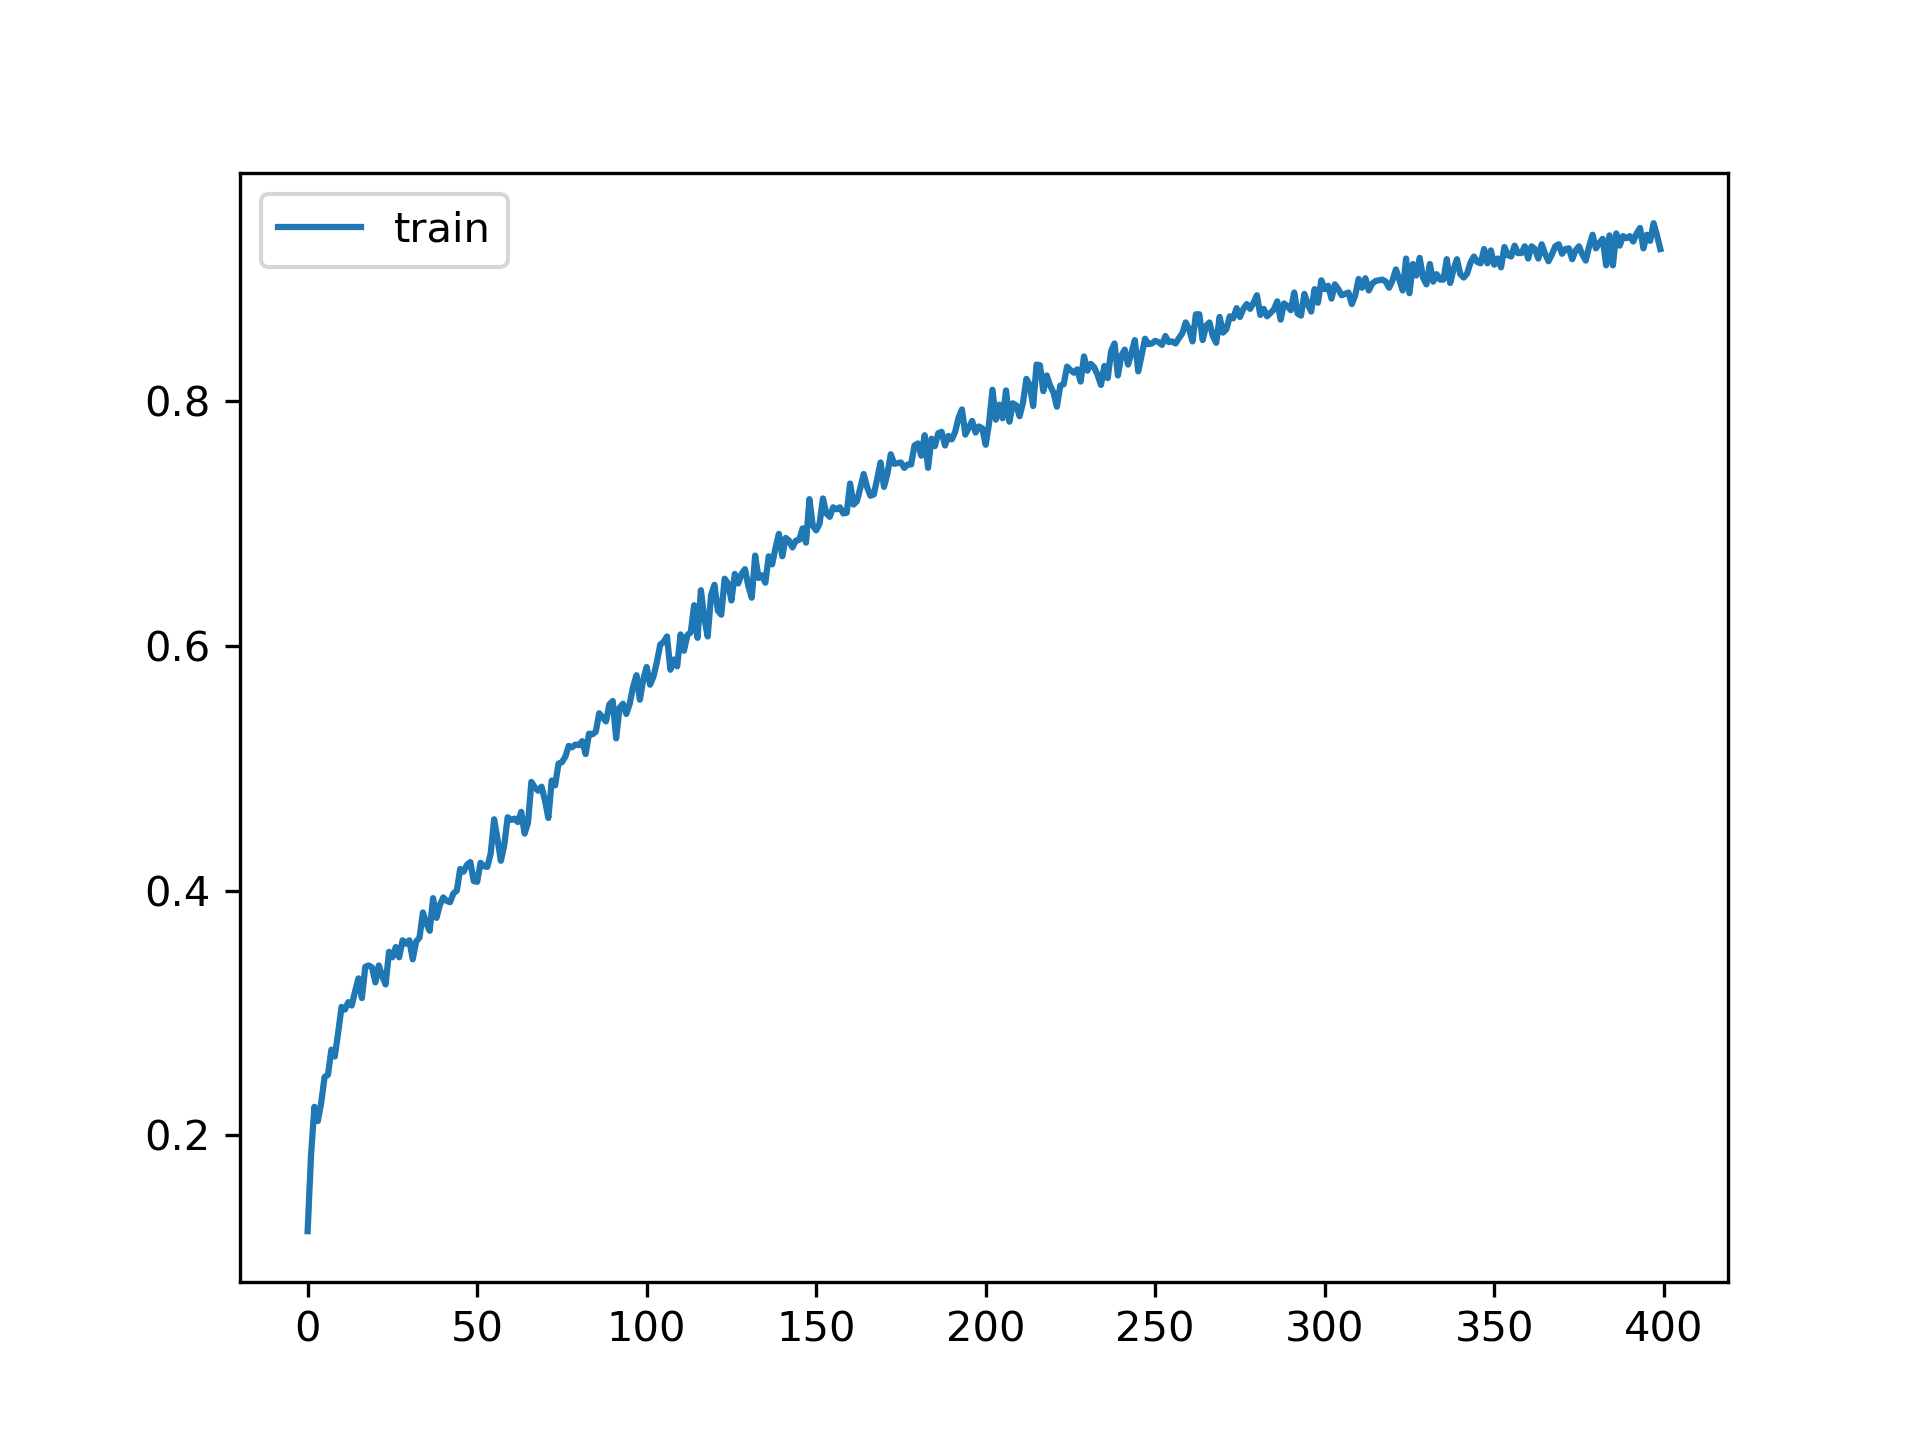
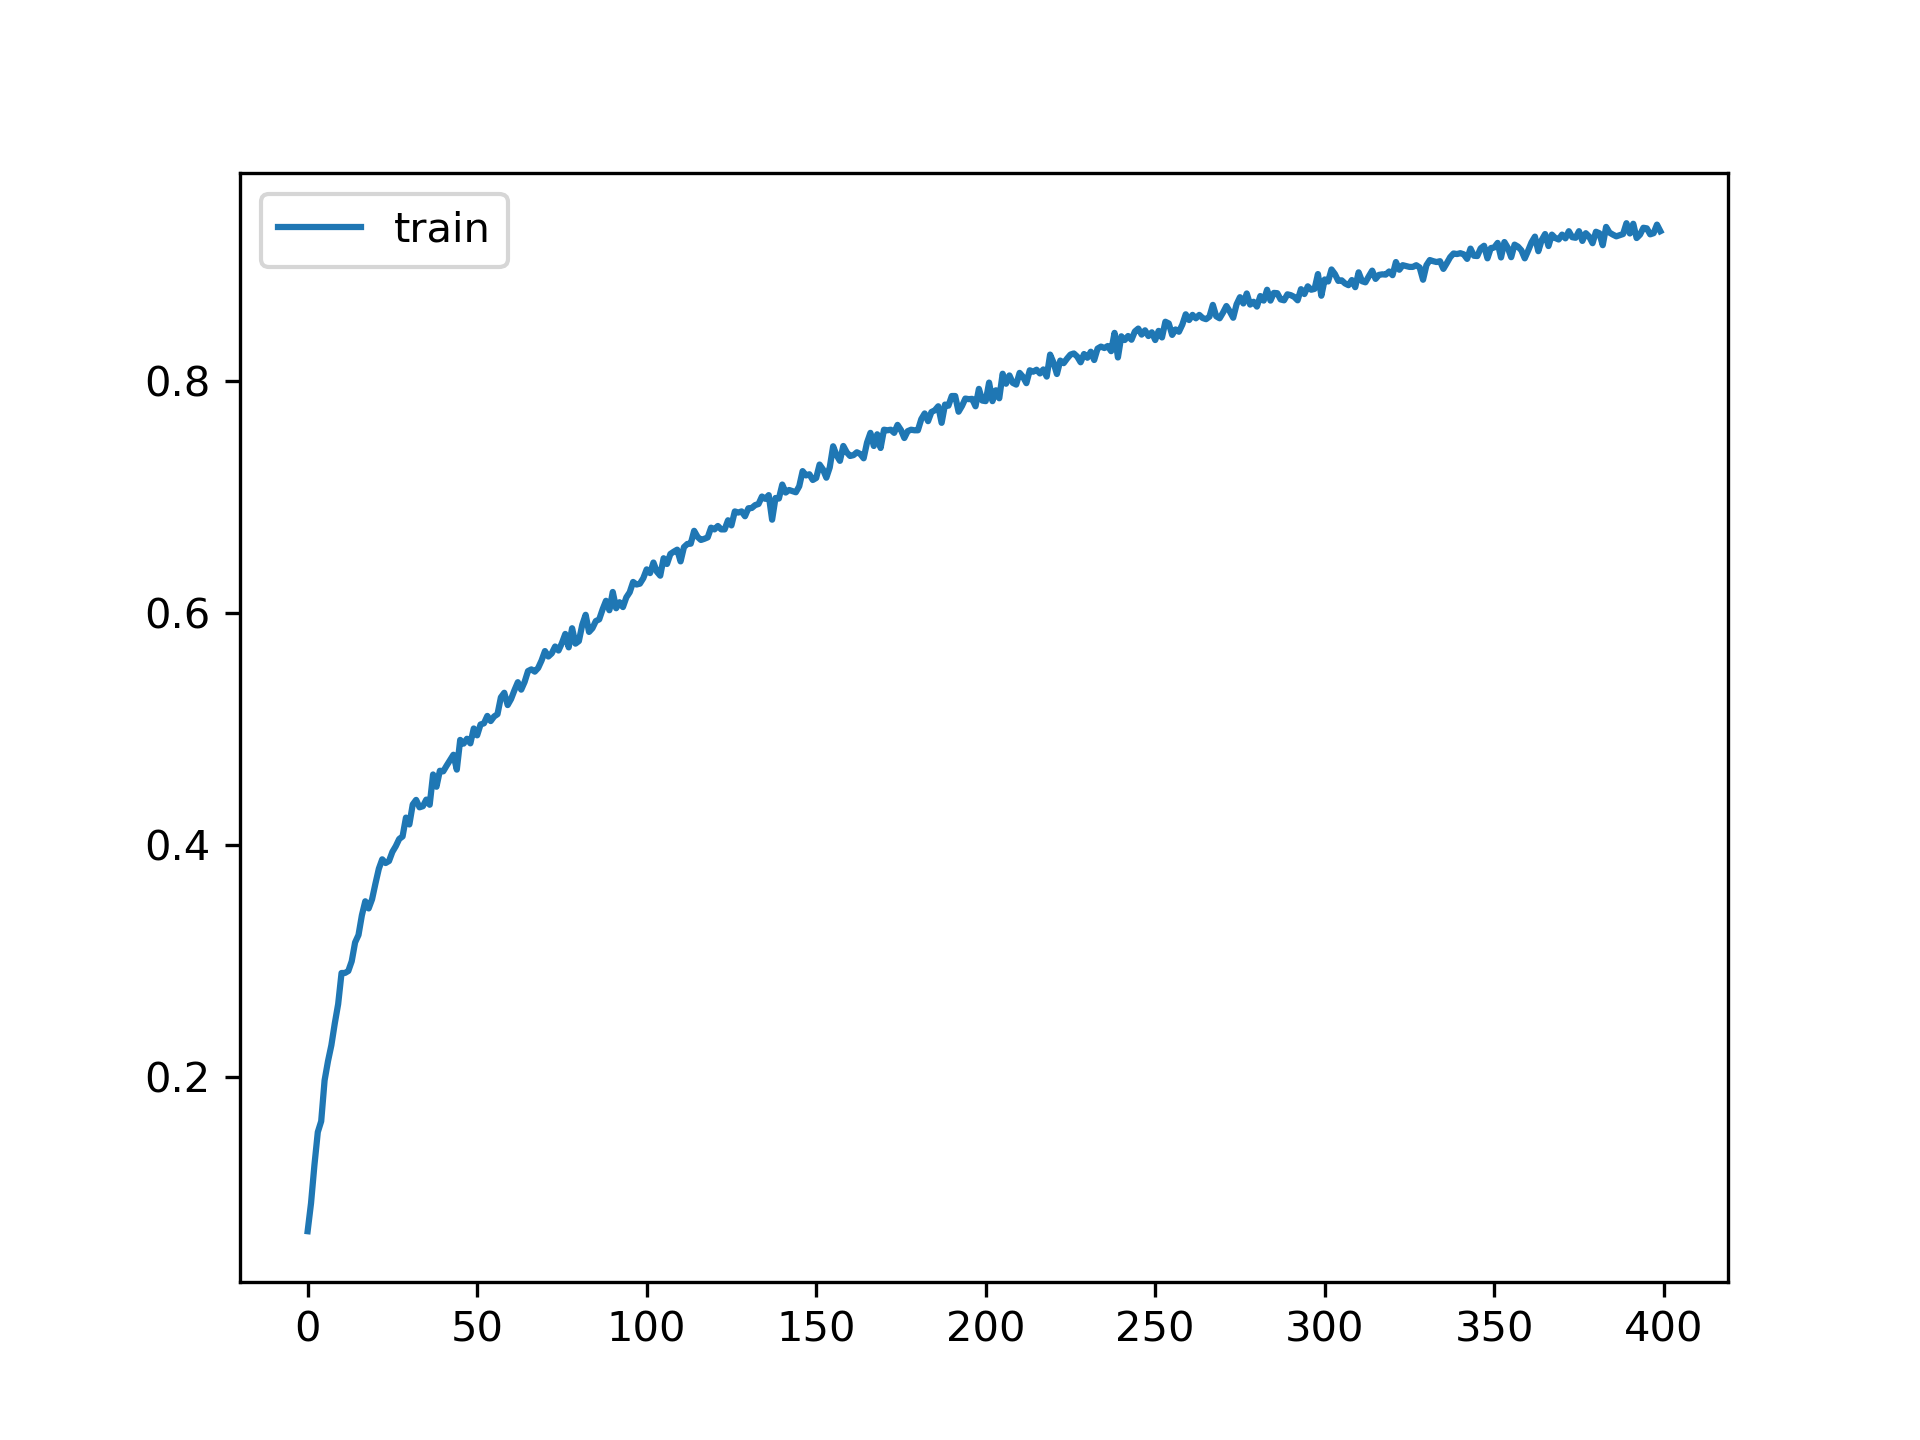
lab1_version10_b

diff --git a/nlp-lab-1-JwaYounkyung/lab1_Problem1.py b/nlp-lab-1-JwaYounkyung/lab1_Problem1.py
@@ -26,7 +26,7 @@ TEXT = legacy.data.OneHotField(sequential=True, batch_first=True, fix_length=20)
 LABEL = legacy.data.Field(sequential=False, batch_first=True)
 
 trainset= legacy.data.TabularDataset(
-        path='data/train_lab1_EDA.csv', format='csv',
+        path='data/train_lab1_Sampled.csv', format='csv',
         fields=[('text', TEXT), ('label', LABEL)], skip_header=True)
 
 testset= legacy.data.TabularDataset(
